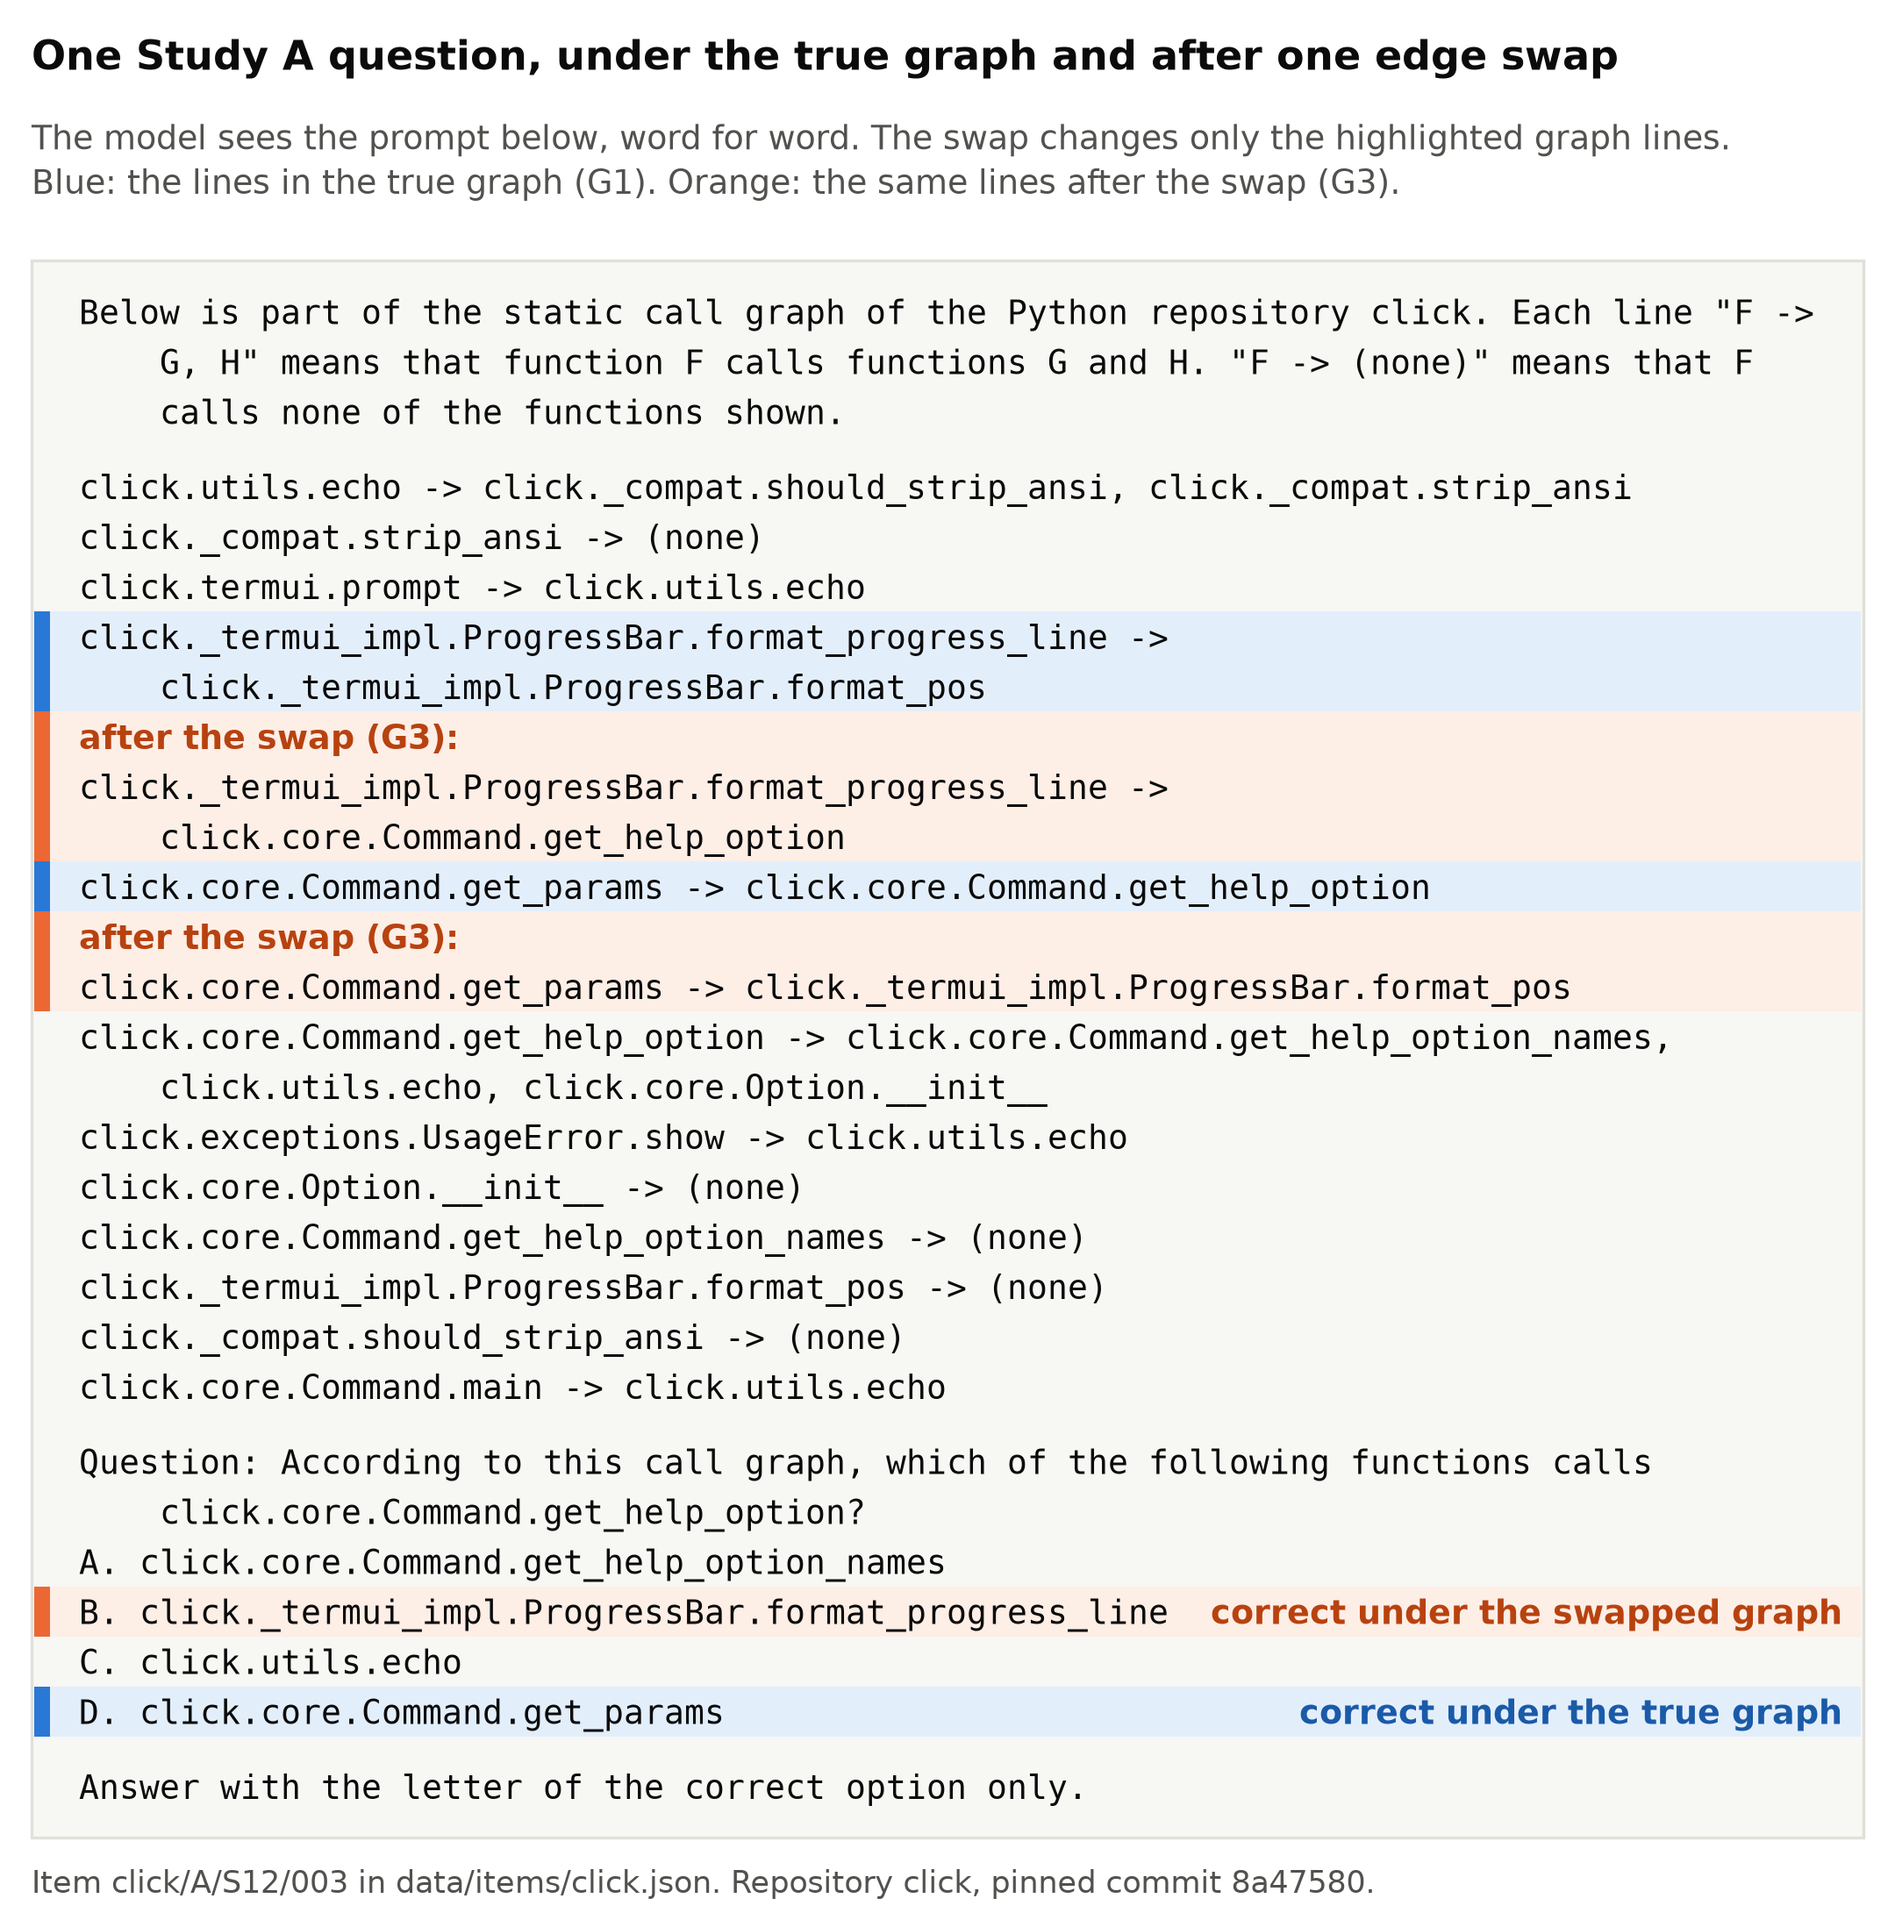
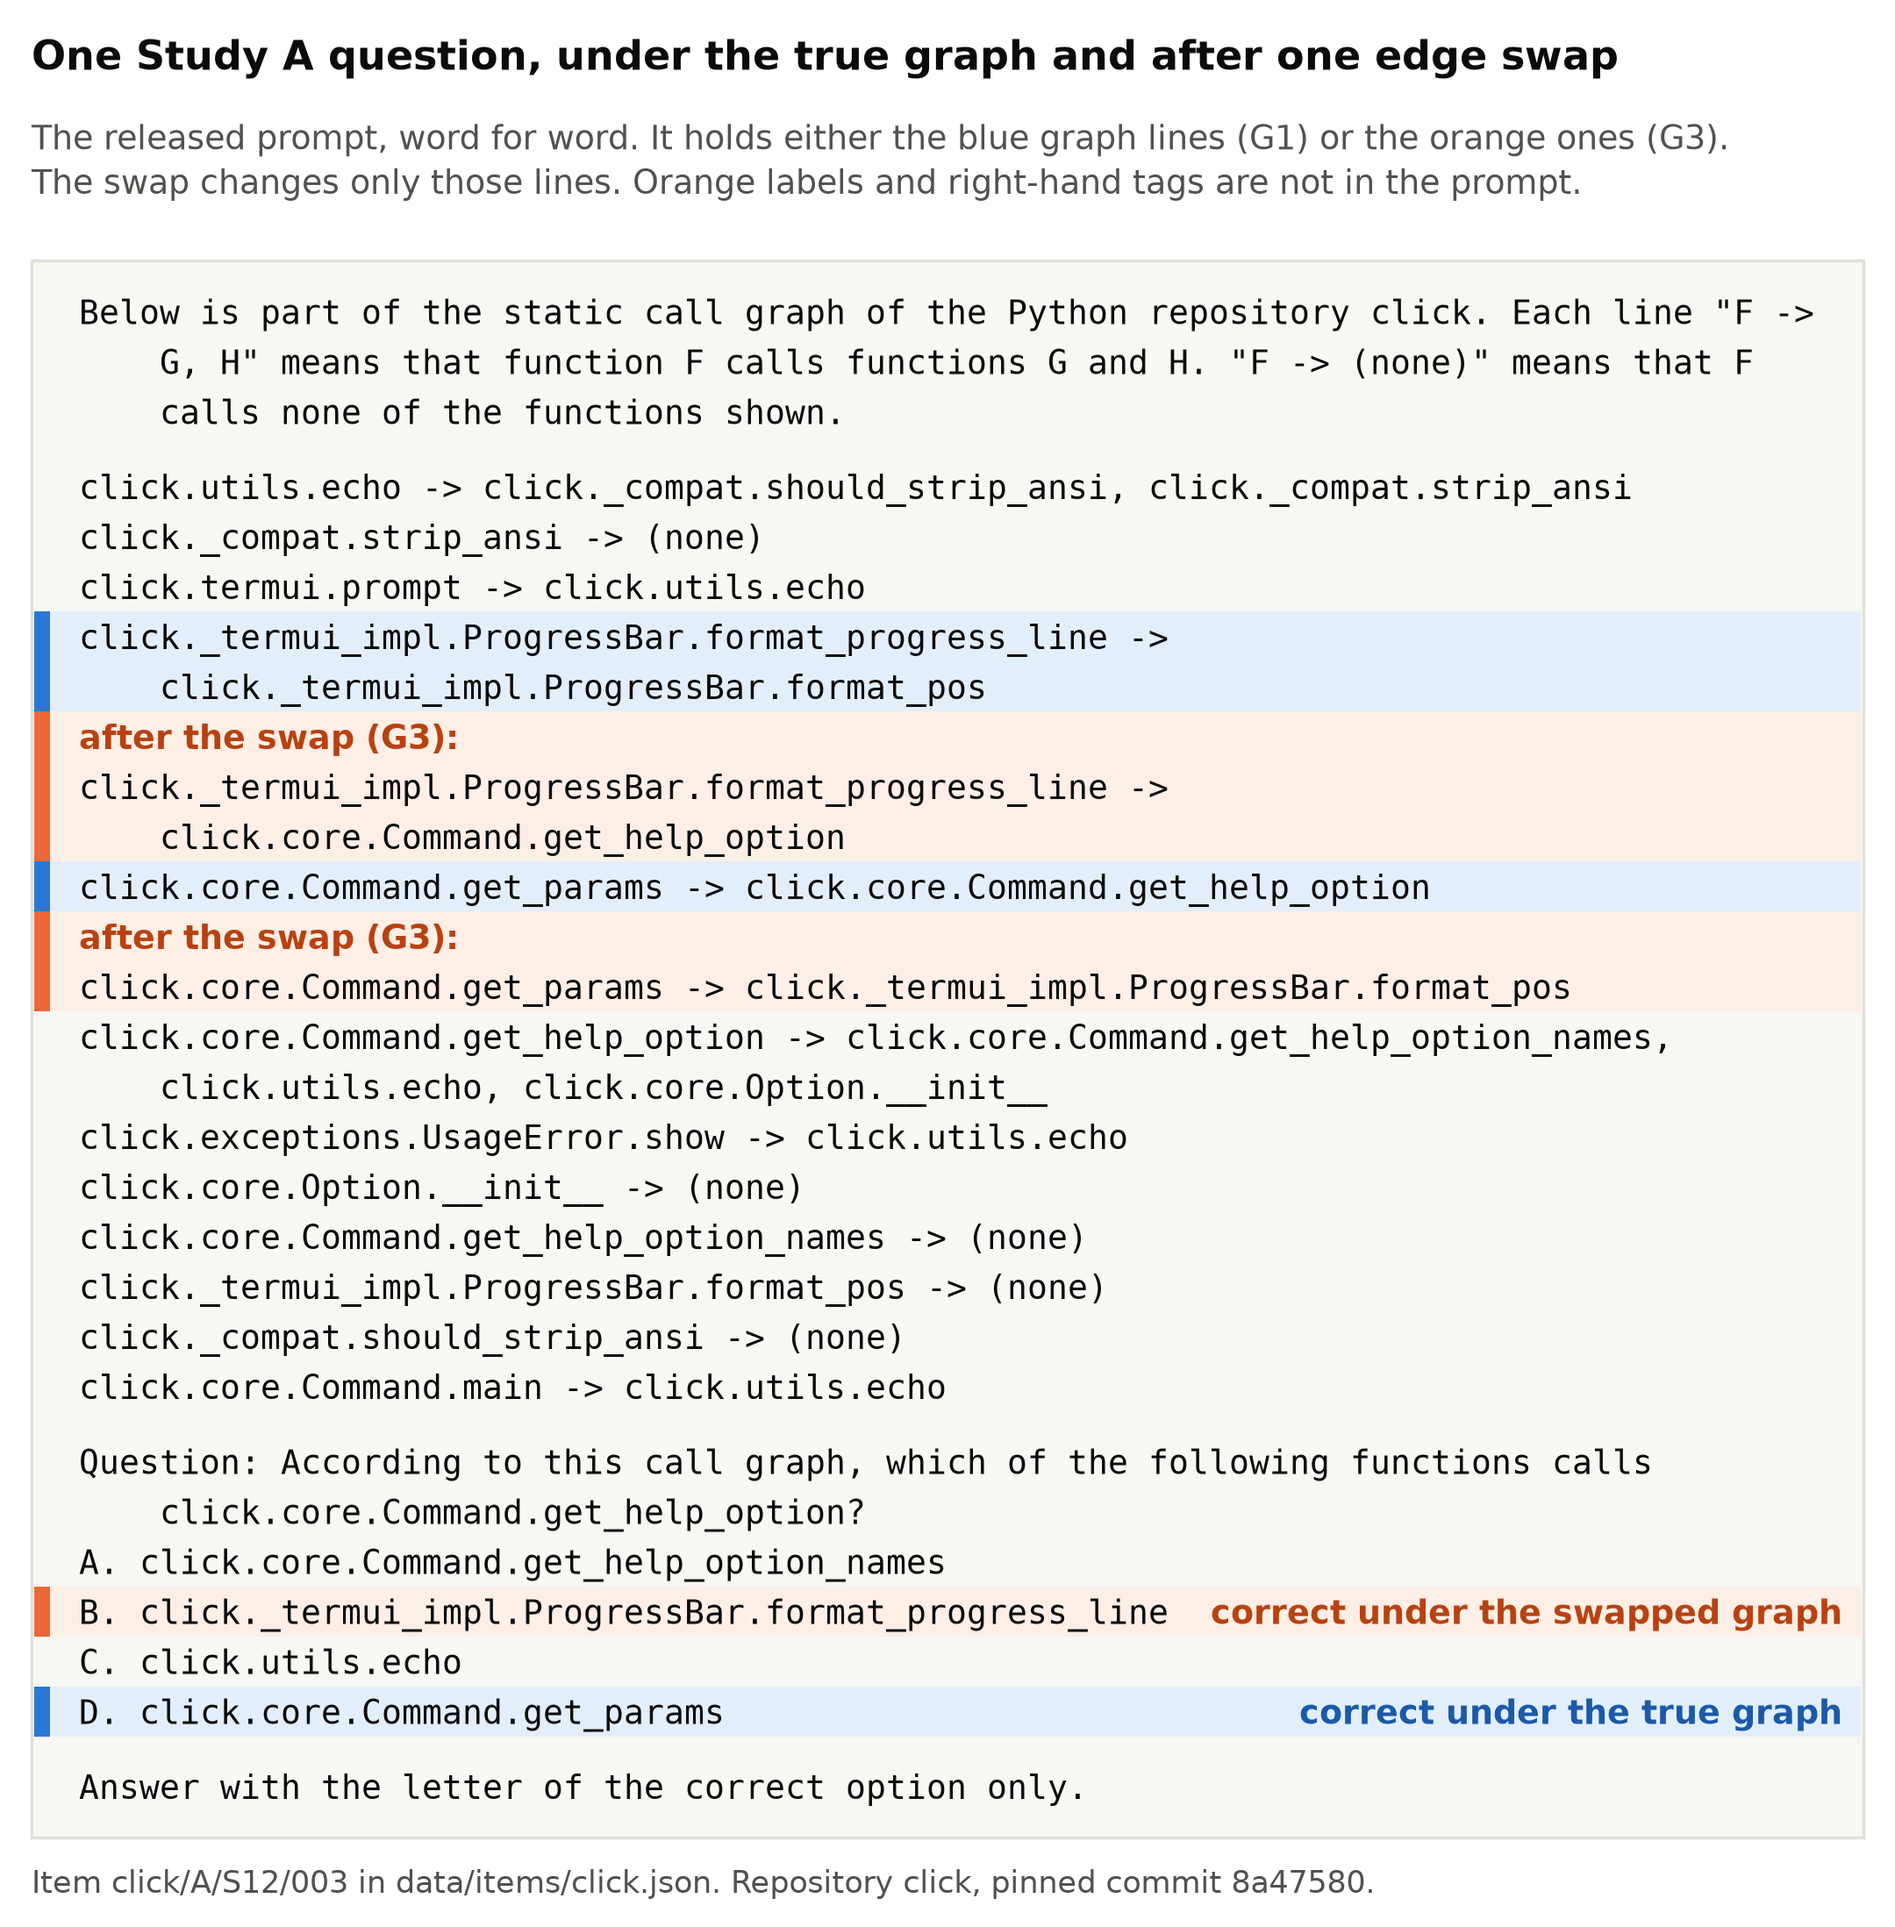
Apply review findings to the front page and the figure tests
Front page: state the conditions of the Study B results and of the Study A
interaction as the paper does, give the test count with and without
llama-cpp-python, and say that the reprint script stops with an error when
it is run from another folder.

Figure tests: run the scripts in a temporary copy, so a test run no longer
rewrites the released PNGs. Check that a changed result file changes what
Figure 1 draws, and that Figure 2 prints the prompt word for word.

Figure 2: the subtitle now says that a prompt holds either the true or the
swapped graph lines, and that the labels are not part of the prompt.

Changed region(s): [[0.031, 0.0619, 0.8995, 0.1238]]

diff --git a/fig/test_fig_data.py b/fig/test_fig_data.py
@@ -2,16 +2,32 @@
 
 Run from the repository root:
     uv run --with matplotlib==3.11.2 python -m unittest discover -s fig -p "test_*.py"
+
+The tests write nothing into the repository: the scripts run in a temporary copy.
 """
-import os
+import json
+import shutil
+import struct
 import subprocess
 import sys
+import tempfile
 import unittest
 from pathlib import Path
+from unittest import mock
 
 FIG = Path(__file__).resolve().parent
 ROOT = FIG.parent
 sys.path.insert(0, str(FIG))
+
+# The released files that the two scripts read. The scripts must need nothing else.
+INPUTS = (
+    'runs/studyA/studyA_report.json',
+    'runs/studyB/studyB_report.json',
+    'exploratory/e3_results.json',
+    'exploratory/e4c_results.json',
+    'exploratory/e5_results.json',
+    'data/items/click.json',
+)
 
 # Expected plotted values, at the precision the figure prints.
 # Study A accuracy in percent, in the order E2B, E4B, 12B, 31B.
@@ -40,12 +56,20 @@ CONTROLS = {
 }
 # Control row hint_vs_none: exploratory/e3_results.json, hint_true_minus_none, two decimals.
 HINT_VS_NONE = {'31B': (-10.53, -26.32, 2.63), 'E4B': (-7.89, -21.05, 0.00)}
+HINT_TASKS = 19
 
 
-def run_script(script, cwd):
-    """Run a figure script in a separate process and return the finished process."""
-    return subprocess.run([sys.executable, str(FIG / script)], cwd=str(cwd),
-                          capture_output=True, text=True, timeout=300)
+def copy_inputs(root):
+    """Copy the released input files into the folder `root`, at the same relative paths."""
+    for rel in INPUTS:
+        (root / rel).parent.mkdir(parents=True, exist_ok=True)
+        shutil.copyfile(ROOT / rel, root / rel)
+
+
+def png_size(path):
+    """Pixel width and height, read from the PNG header."""
+    with open(path, 'rb') as f:
+        return struct.unpack('>II', f.read(24)[16:24])
 
 
 class Figure1Data(unittest.TestCase):
@@ -60,6 +84,7 @@ class Figure1Data(unittest.TestCase):
             for model, expected in by_model.items():
                 got = tuple(round(x, 1) for x in v['controls'][key][model])
                 self.assertEqual(got, expected, f'{key} {model}')
+        self.assertEqual(v['hint_tasks'], HINT_TASKS)
 
     def test_loader_returns_the_hint_against_no_graph_row(self):
         from fig1 import load_values
@@ -69,17 +94,54 @@ class Figure1Data(unittest.TestCase):
                 self.assertAlmostEqual(got, want, places=2, msg=model)
 
 
+class Figure1ReadsTheReleasedFiles(unittest.TestCase):
+    def test_a_changed_file_changes_what_the_figure_draws(self):
+        """Values typed into the script would leave the drawing as it was."""
+        import fig1
+        with tempfile.TemporaryDirectory() as tmp:
+            root = Path(tmp)
+            copy_inputs(root)
+
+            def rewrite(rel, change):
+                data = json.loads((root / rel).read_text())
+                change(data)
+                (root / rel).write_text(json.dumps(data))
+
+            rewrite('runs/studyA/studyA_report.json', lambda d: d['accuracy']['31B'].update(G1=0.5))
+            rewrite('runs/studyB/studyB_report.json', lambda d: d['B1'].update(estimate=0.01))
+            rewrite('exploratory/e3_results.json',
+                    lambda d: d['models']['31B']['hint_true_minus_rewired'].update(mean=0.02))
+            with mock.patch.object(fig1, 'ROOT', root):
+                fig = fig1.make_figure()
+        try:
+            panel_a, panel_b = fig.axes
+            g1 = next(line for line in panel_a.lines if str(line.get_label()).startswith('G1 '))
+            self.assertAlmostEqual(g1.get_ydata()[fig1.MODELS.index('31B')], 50.0)
+            printed = [t.get_text() for t in panel_b.texts]
+            self.assertIn('+1.0', printed)
+            self.assertTrue(any(t.startswith('31B +2.0 (') for t in printed), printed)
+        finally:
+            fig1.plt.close(fig)
+
+
 class FigureOutput(unittest.TestCase):
     def test_each_png_is_written_next_to_its_script_from_any_working_folder(self):
-        for script, name in (('fig1.py', 'figure1.png'), ('fig2.py', 'figure2.png')):
-            png = FIG / name
-            for cwd in (ROOT, FIG):
-                if png.exists():
-                    os.utime(png, (0, 0))  # an old time, so any rewrite is visible
-                done = run_script(script, cwd)
-                self.assertEqual(done.returncode, 0, done.stderr)
-                self.assertTrue(png.exists(), f'no {name} after running from {cwd.name}')
-                self.assertGreater(png.stat().st_mtime, 0, f'{name} not rewritten from {cwd.name}')
+        with tempfile.TemporaryDirectory() as tmp:
+            root = Path(tmp)
+            copy_inputs(root)
+            fig = root / 'fig'
+            fig.mkdir()
+            for script in ('fig1.py', 'fig2.py'):
+                shutil.copyfile(FIG / script, fig / script)
+            for script, name in (('fig1.py', 'figure1.png'), ('fig2.py', 'figure2.png')):
+                png = fig / name
+                for where, cwd in (('the root folder', root), ('the fig folder', fig)):
+                    png.unlink(missing_ok=True)
+                    done = subprocess.run([sys.executable, str(fig / script)], cwd=str(cwd),
+                                          capture_output=True, text=True, timeout=300)
+                    self.assertEqual(done.returncode, 0, done.stderr)
+                    self.assertTrue(png.exists(), f'no {name} after running from {where}')
+                self.assertEqual(png_size(png), png_size(FIG / name), f'{name} has another size than the released file')
 
 
 class Figure2Item(unittest.TestCase):
@@ -97,6 +159,15 @@ class Figure2Item(unittest.TestCase):
         for i in differing:
             self.assertTrue(any(g1[i].startswith(c + ' -> ') for c in callers), g1[i])
         self.assertEqual(differing, list(self.fig2.swapped_lines(self.item)))
+
+    def test_rows_reprint_the_prompt_word_for_word(self):
+        rows = self.fig2.build_rows(self.item)
+        shown = ' '.join(r['text'] for r in rows if r['kind'] not in ('label', 'swapped'))
+        self.assertEqual(shown.split(), self.item['g1'].split())
+        g3 = self.item['g3'].split('\n')
+        swapped = ' '.join(r['text'] for r in rows if r['kind'] == 'swapped')
+        expected = ' '.join(g3[i] for i in self.fig2.swapped_lines(self.item))
+        self.assertEqual(swapped.split(), expected.split())
 
     def test_correct_letters_come_from_the_item_file(self):
         self.assertEqual(self.item['correct_g1'], 'D')

diff --git a/fig/fig2.py b/fig/fig2.py
@@ -102,8 +102,8 @@ def make_figure():
 
     ax.text(0.12, top_pad, 'One Study A question, under the true graph and after one edge swap',
             ha='left', va='top', fontsize=11, fontweight='bold', color=INK, family=SANS)
-    ax.text(0.12, top_pad + title_h, 'The model sees the prompt below, word for word. The swap changes only the highlighted graph lines.\n'
-            'Blue: the lines in the true graph (G1). Orange: the same lines after the swap (G3).',
+    ax.text(0.12, top_pad + title_h, 'The released prompt, word for word. It holds either the blue graph lines (G1) or the orange ones (G3).\n'
+            'The swap changes only those lines. Orange labels and right-hand tags are not in the prompt.',
             ha='left', va='top', fontsize=9, color=SEC, family=SANS, linespacing=1.35)
 
     box_top = top_pad + title_h + sub_h + gap

diff --git a/.github/README.md b/.github/README.md
@@ -6,14 +6,14 @@ This repository holds the code, data, pre-registration and run files of the pape
 
 Two pre-registered studies ran Gemma 4 (E2B, E4B, 12B and 31B, Q4_0 files) with one forward pass and thinking off.
 
-- **Study A: Gemma 4 reads the call graph it is shown.** On 640 call-graph questions from 32 Python repositories, 31B answers 96.4% with the true graph and 46.4% with no graph. After an edge swap that contradicts the real code, 31B still follows the shown graph (93.8%). Real names do not change how edges are read: the interaction is +0.5 points, equivalent to zero within ±5 points.
-- **Study B: names help ranking, true edges do not.** On 371 bug-localization tasks from the competition and SWE-bench Lite, real identifiers add 8.0 points of top-1 accuracy over renamed ones (95% CI 4.9 to 11.1). On the 174 tasks that name a function unambiguously, the true call graph scores 2.2 points below a degree-preserving rewired copy (95% CI −4.2 to −0.3, Holm p = 0.0498). That result is borderline, and the pre-registration predicted a gain.
+- **Study A: Gemma 4 reads the call graph it is shown.** On 640 call-graph questions from 32 Python repositories, 31B answers 96.4% with the true graph and 46.4% with no graph. After an edge swap that contradicts the real code, 31B still follows the shown graph (93.8%). Where the models' prior knowledge of the edges is weak, real names do not change how edges are read: the interaction is +0.5 points, equivalent to zero within ±5 points.
+- **Study B: names help ranking, true edges do not.** On 371 bug-localization tasks from the competition and SWE-bench Lite, with no graph shown, real identifiers add 8.0 points of top-1 accuracy over renamed ones (95% CI 4.9 to 11.1). With identifiers renamed, on the 174 tasks that name a function unambiguously, the true call graph scores 2.2 points below a degree-preserving rewired copy (95% CI −4.2 to −0.3, Holm p = 0.0498). That result is borderline, and the pre-registration predicted a gain.
 
 ![Figure 1 of the paper: Study A accuracy by model and graph version, and Study B differences with 95% intervals](https://raw.githubusercontent.com/zaeem-rafiq/gemma4-names-vs-edges/main/fig/figure1.png)
 
 ## Reprint the paper's tables
 
-Python 3 is enough; nothing needs installing. Run the script from the repository root. From any other folder it finds no run files and prints empty tables.
+Python 3 is enough; nothing needs installing. Run the script from the repository root. From any other folder it finds no run files and stops with a `ZeroDivisionError`.
 
 ```bash
 git clone https://github.com/zaeem-rafiq/gemma4-names-vs-edges.git
@@ -39,13 +39,13 @@ For the first freeze, unpack `frozen/prereg-v1.0.tar.gz` into an empty folder an
 
 The root [README.md](https://github.com/zaeem-rafiq/gemma4-names-vs-edges/blob/main/README.md) is the package README as it was frozen with the pre-registration on 10 November 2026, before Study B was scored. The manifest hashes it, so it stays byte-identical and its status paragraph is out of date. [STATUS.md](https://github.com/zaeem-rafiq/gemma4-names-vs-edges/blob/main/STATUS.md) has the current state. Two of its commands need a different form on this tree.
 
-**Tests.** One test, `test_package_code_sha256_is_current`, compares the frozen `CODE_SHA256.txt` with the current tree. It fails on any tree that holds files added after the freeze, as this one does. Set the environment variables of the root README's section 1, then run:
+**Tests.** One test, `test_package_code_sha256_is_current`, compares the frozen `CODE_SHA256.txt` with the current tree. It fails on any tree that holds files added after the freeze, as this one does. The tests need the packages in `requirements.txt`; the released results used Python 3.13.18 and 3.14.8. Set the environment variables of the root README's section 1, then run:
 
 ```bash
 python -m pytest -q tests --deselect tests/test_commit.py::test_package_code_sha256_is_current
 ```
 
-The expected result is `280 passed, 1 deselected`.
+The expected result is `280 passed, 1 deselected` when llama-cpp-python is installed, as the root README's setup section describes. Without it, the 15 tests that need it are skipped and the result is `265 passed, 15 skipped, 1 deselected`. The root README adds that one more test is skipped where `sha256sum` is not on the PATH.
 
 **Study A analysis.** The run files are in `runs/studyA/`, not in `runs/`. The command needs the packages in `requirements.txt`, and its output path leaves the released `runs/studyA/studyA_report.json` untouched:
 
